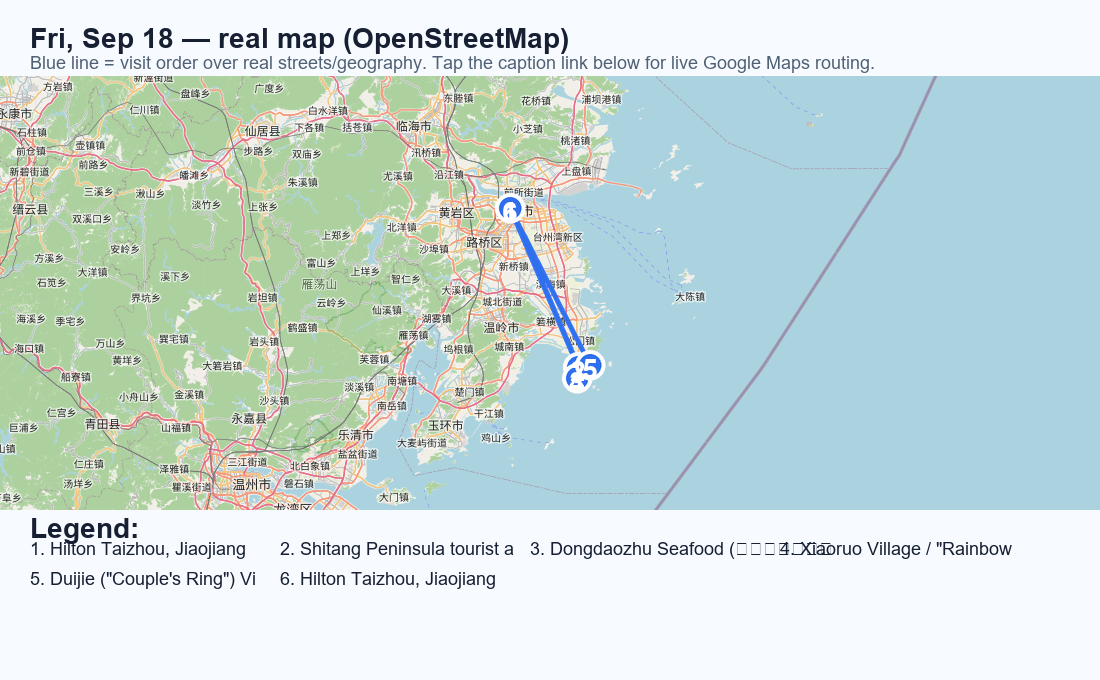
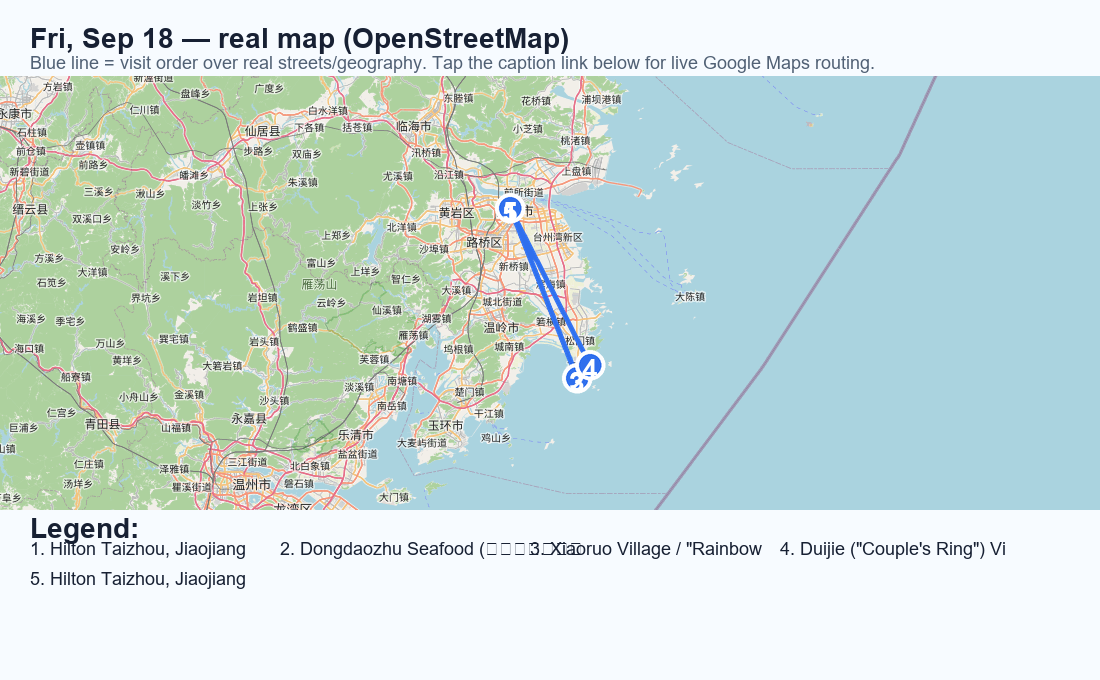
Sep19: number stops, add Hongqiao arrival/transfer detail
Copilot-Session: 5728fe09-5b5d-49bb-90e8-1375c7d7759c

Changed region(s): [[0.0309, 0.7721, 0.9273, 0.8647], [0.4945, 0.4324, 0.5564, 0.5559], [0.4636, 0.3706, 0.4945, 0.4324]]

diff --git a/Taipei-China-Itinerary.html b/Taipei-China-Itinerary.html
@@ -293,16 +293,15 @@ a{color:var(--acc)}
 <div class="body"><ul class="plan"><li><span class="en"><b>Upgraded from the old "just rest in Jiaojiang" plan</b> to a real day-trip: <b>Jiaojiang → Shitang Peninsula (石塘半岛), Wenling</b> by rented e-bike. Shitang is a different district of Taizhou from Jiaojiang — best available estimate is <b>~1.5–2h each way</b> by car (per prior Taizhou-district research: ~55–75 min Jiaojiang→Wenling city + further to Shitang town; the earlier "1h10min" figure was actually for Linhai↔Wenling, not Jiaojiang↔Shitang — re-check on a map/rideshare app closer to the date). <i>Fallback: anyone who'd rather just rest can stay at the hotel/spa instead — this whole day is optional, not mandatory.</i></span><span class="zh"><b>从原来「椒江纯休整」方案升级为真正的一日游</b>：<b>椒江 → 温岭石塘半岛</b>骑电动车一日游。石塘与椒江（台州希尔顿所在区）是台州下辖的不同区县，目前最可靠的估算是<b>单程约1.5–2小时</b>车程（依据此前台州各区县研究稿：椒江→温岭市区约55–75分钟，再到石塘镇更远；此前提到的「1小时10分」实为临海↔温岭车程，并非椒江↔石塘，出发前请再用地图/打车软件复核）。<i>备选：如果只想纯休息，也可以留在酒店/做理疗，今天整体是可选项，不强制外出。</i></span></li>
 <li><span class="en"><b>Plan B (preferred, lower effort):</b> taxi Jiaojiang → a Shitang guesthouse (~1.5–2h; if arriving by rail instead, reportedly ≈80 RMB/45 min from Wenling HSR Station), drop bags, then rent an e-bike right at the guesthouse door — several Shitang guesthouses reportedly rent e-bikes on-site (<b>as reported/unverified — confirm on arrival:</b> 温岭石塘禧悦民宿, 吾家小院, 臻之小筑, or the recommended <b>琳朵艺术空间·海景美宿（石塘七彩小岛店）</b> near Xiaoruo, ~3 min walk to Dongdaozhu), or from a local shop in town (<b>as reported/unverified:</b> 珂徕出行威哥租车电动车租赁 on 马北路, 24h; 小王金箭电瓶车修理出租 on 冠平路, 08:00–21:00). Choose a <b>48V large-battery/hill-climbing model (80–100 km range)</b> — enough for the whole peninsula loop.</span><span class="zh"><b>方案B（推荐，更省心）：</b>打车椒江 → 石塘民宿（约1.5–2小时；若改从温岭高铁站出发，据称约80元/45分钟），放下行李后直接在民宿门口租电动车——据称多家石塘民宿可现场租车（<b>用户提供、未逐一核实，抵达后请确认</b>：温岭石塘禧悦民宿、吾家小院、臻之小筑，或推荐的<b>琳朵艺术空间·海景美宿（石塘七彩小岛店）</b>，就在小箬村附近，步行约3分钟到东岛主），    或在镇上租车行租（<b>未核实</b>：马北路「珂徕出行威哥租车电动车租赁」24小时营业；冠平路「小王金箭电瓶车修理出租」08:00–21:00）。选<b>48V大电瓶爬坡款（续航80–100公里）</b>，足够绕完整个半岛。</span></li>
 <li><span class="en"><b>Rental terms (as reported, verify on the day):</b> weekday ≈50 RMB/24h, weekend/peak ≈60 RMB/24h (hourly ≈12 RMB/h isn't worth it vs. the day rate); ID card required; Sesame Credit (芝麻信用分) ≥650 can waive the deposit, otherwise ≈200 RMB cash deposit, refunded in full on return if undamaged. <b>Plan A (alternative, no taxi):</b> rent at <b>绿津骑行·电动车租赁 (温岭火车站店)</b> near Wenling HSR Station (reported ≈120 RMB/2-day battery-swap/long-range model — real rental shop, confirm current price) and ride the whole ~40 km Wenling Station→Shitang route yourself on a national highway with more traffic; must be a long-range model, and the bike has to be returned to the <b>same station-side shop</b> (no one-way drop-off in Shitang) — inconvenient for this itinerary, so Plan B is the primary recommendation.</span><span class="zh"><b>租车条件（用户提供，出发前请核实）：</b>工作日约50元/24小时，周末/旺季约60元/24小时（按小时约12元/小时不划算）；需带身份证；芝麻信用分≥650可免押金，否则现金押金约200元，车辆完好归还全额退还。<b>方案A（备选，不打车）：</b>在温岭火车站附近的「绿津骑行·电动车租赁（温岭火车站店）」租车（据称约120元/2天、换电池长续航款——确认为真实存在的当地租车行，具体价格请核实）自己骑约40公里的温岭站→石塘国道，车流更大，必须选长续航款，且车必须还到<b>同一家车站门店</b>（不能在石塘单程还车），对本行程不太方便，所以主推方案B。</span></li>
-<li><span class="en"><b>Visiting order (verified route, west→east along the coast, no backtracking):</b> ① <b>东岛主海鲜大排档 Dongdaozhu Seafood</b> (lunch/early meal, right across from Xiaoruo Village — verified as a real, well-reviewed local seafood spot; exact address as reported: 温岭市石塘镇东海村鑫海13号, confirm on arrival) → ② <b>小箬村 Xiaoruo Village / 七彩渔村 "Rainbow Fishing Village"</b> (~3 min walk over — verified: colorful hillside houses, flat/easy walking; <b>麒麟山 Qilin Hill</b> inside the village is a short staircase, not real hiking, and is the best photo/sunset overlook of the village) → ③ ~15 min e-bike/car east along the coastal road to the <b>对戒观景平台 Duijie ("Couple's Ring") viewing platform</b> for sunset (verified real spot at 五岙村; car/e-bike reaches a parking area, then ~10–15 min walk up — some steps, non-slip shoes recommended).</span><span class="zh"><b>游览顺序（已核实真实路线，沿海岸自西向东，无需走回头路）：</b>① <b>东岛主海鲜大排档</b>（用餐，就在小箬村对面——已核实为真实存在、口碑不错的当地海鲜大排档；报告地址温岭市石塘镇东海村鑫海13号，抵达后请核实门牌）→ ② <b>小箬村/七彩渔村</b>（步行约3分钟——已核实：彩色房屋依山而建，地势平坦好走；村内<b>麒麟山</b>只是一段短台阶，不是真正爬山，是俯瞰全村与海景/看日落的最佳机位）→ ③ 沿海岸公路骑电动车/开车向东约15分钟到<b>对戒观景平台</b>看日落（已核实为五岙村真实景点；车/电动车到停车场后步行约10–15分钟上平台，部分路段有台阶，建议穿防滑鞋）。</span></li>
+<li><span class="en"><b>Visiting order (verified route, west→east along the coast, no backtracking, numbered to match the map pins):</b> ① <b>Hilton Taizhou, Jiaojiang</b> (depart) → ② <b>东岛主海鲜大排档 Dongdaozhu Seafood</b> (lunch/early meal, right across from Xiaoruo Village — verified as a real, well-reviewed local seafood spot; exact address as reported: 温岭市石塘镇东海村鑫海13号, confirm on arrival) → ③ <b>小箬村 Xiaoruo Village / 七彩渔村 "Rainbow Fishing Village"</b> (~3 min walk over — verified: colorful hillside houses, flat/easy walking; <b>麒麟山 Qilin Hill</b> inside the village is a short staircase, not real hiking, and is the best photo/sunset overlook of the village) → ④ ~15 min e-bike/car east along the coastal road to the <b>对戒观景平台 Duijie ("Couple's Ring") viewing platform</b> for sunset (verified real spot at 五岙村; car/e-bike reaches a parking area, then ~10–15 min walk up — some steps, non-slip shoes recommended) → ⑤ return e-bike, taxi back to <b>Hilton Taizhou, Jiaojiang</b>. (Note: all three Shitang stops — Dongdaozhu, Xiaoruo, Duijie — sit within the broader Shitang Peninsula tourist area, so it isn't shown as its own numbered stop.)</span><span class="zh"><b>游览顺序（已核实真实路线，沿海岸自西向东，无需走回头路，编号与地图大头针一致）：</b>① <b>台州希尔顿（椒江）</b>（出发）→ ② <b>东岛主海鲜大排档</b>（用餐，就在小箬村对面——已核实为真实存在、口碑不错的当地海鲜大排档；报告地址温岭市石塘镇东海村鑫海13号，抵达后请核实门牌）→ ③ <b>小箬村/七彩渔村</b>（步行约3分钟——已核实：彩色房屋依山而建，地势平坦好走；村内<b>麒麟山</b>只是一段短台阶，不是真正爬山，是俯瞰全村与海景/看日落的最佳机位）→ ④ 沿海岸公路骑电动车/开车向东约15分钟到<b>对戒观景平台</b>看日落（已核实为五岙村真实景点；车/电动车到停车场后步行约10–15分钟上平台，部分路段有台阶，建议穿防滑鞋）→ ⑤ 还车，打车返回<b>台州希尔顿（椒江）</b>。（说明：东岛主、小箬村、对戒观景平台这三站都在「石塘半岛」这一片大区域内，故不再把「石塘半岛」单列为一个编号站点。）</span></li>
 <li><span class="en"><b>Rough day timing (own estimate, adjust once drive time is confirmed):</b> depart Hilton Taizhou ≈08:00–08:30 → arrive Shitang ≈09:30–10:30 → rent bike, ride/eat at Dongdaozhu + explore Xiaoruo late morning–afternoon → ride to Duijie platform in time for sunset (~18:00–18:30 in mid-Sep) → return e-bike → taxi back to Jiaojiang, arriving ≈20:30–21:30. This is a full, long day — confirm everyone (especially Mom) is up for the round-trip car time before locking it in.</span><span class="zh"><b>大致时间安排（本文估算，实际车程确认后请调整）：</b>约08:00–08:30 从台州希尔顿出发 → 约09:30–10:30 抵达石塘 → 租车后在东岛主用餐、逛小箬村（上午晚些到下午）→ 骑往对戒观景平台赶9月中旬约18:00–18:30的日落 → 还车 → 打车返回椒江，约20:30–21:30到酒店。这是很长的一天——落定前先确认包括Mom在内大家都能接受来回车程。</span></li>
 <li><span class="en"><b>Safety/pitfalls:</b> always inspect and <b>photograph the bike's brakes/body condition</b> before riding off, to avoid deposit disputes at return; a <b>helmet is legally required</b> and traffic police do check — don't skip it; pick a two-person/hill-climbing-capable model since Shitang's coastal sections are hilly and underpowered bikes struggle.</span><span class="zh"><b>安全/避坑提示：</b>取车前务必检查并<b>拍照记录刹车/车身状况</b>，避免还车时押金纠纷；<b>骑电动车必须戴头盔</b>，交警会查，别省这一步；选<b>双人/爬坡款</b>，石塘沿海路段有坡，动力不足的车会吃力。</span></li>
 <li><span class="en">Full write-up with both rental plans, all addresses, pricing and procedure: <a href='Taizhou-Shitang-Ebike-Plan.md'>Taizhou-Shitang-Ebike-Plan.md ↗</a>. Dinner: back in Jiaojiang, local seafood (unchanged from the old plan).</span><span class="zh">两套方案的完整地址、流程与更多细节见：<a href='Taizhou-Shitang-Ebike-Plan.md'>Taizhou-Shitang-Ebike-Plan.md ↗</a>。晚餐：返回椒江后吃本地海鲜（与原计划一致）。</span></li></ul>
 <figure class="daymap">
 <a href="itinerary-maps/day-2026-09-18.png" target="_blank" rel="noopener"><img loading="lazy" src="itinerary-maps/day-2026-09-18.png" alt="Daily combined map for Fri, Sep 18"></a>
-<figcaption><span class="en">Combined daily map on real OpenStreetMap tiles (straight-line visit order, not turn-by-turn routing).</span><span class="zh">每日合并地图（基于真实 OpenStreetMap 地图瓦片，直线示意访问顺序，不代表实际道路导航）。</span><br><span class="en">① Hilton Taizhou, Jiaojiang → ② Shitang Peninsula tourist area → ③ Dongdaozhu Seafood (东岛主海鲜大排档) → ④ Xiaoruo Village / &amp;quot;Rainbow Fishing Village&amp;quot; (小箬村/七彩渔村) → ⑤ Duijie (&amp;quot;Couple&amp;#x27;s Ring&amp;quot;) Viewing Platform → ⑥ Hilton Taizhou, Jiaojiang</span><span class="zh">① 台州希尔顿（椒江） → ② 石塘半岛旅游度假区 → ③ 东岛主海鲜大排档 → ④ 小箬村 / 七彩渔村 → ⑤ 对戒观景平台 → ⑥ 台州希尔顿（椒江）</span><br><a class="pin" href="https://www.google.com/maps/dir/?api=1&origin=28.66044%2C121.40412&destination=28.66044%2C121.40412&travelmode=driving&waypoints=28.27596%2C121.59014%7C28.25158%2C121.58765%7C28.25158%2C121.58765%7C28.28248%2C121.62384" target="_blank" rel="noopener"><span class="en">🧭 Open multi-stop route in Google Maps</span><span class="zh">🧭 在 Google Maps 打开多点路线</span></a></figcaption>
+<figcaption><span class="en">Combined daily map on real OpenStreetMap tiles (straight-line visit order, not turn-by-turn routing).</span><span class="zh">每日合并地图（基于真实 OpenStreetMap 地图瓦片，直线示意访问顺序，不代表实际道路导航）。</span><br><span class="en">① Hilton Taizhou, Jiaojiang → ② Dongdaozhu Seafood (东岛主海鲜大排档) → ③ Xiaoruo Village / &amp;quot;Rainbow Fishing Village&amp;quot; (小箬村/七彩渔村) → ④ Duijie (&amp;quot;Couple&amp;#x27;s Ring&amp;quot;) Viewing Platform → ⑤ Hilton Taizhou, Jiaojiang</span><span class="zh">① 台州希尔顿（椒江） → ② 东岛主海鲜大排档 → ③ 小箬村 / 七彩渔村 → ④ 对戒观景平台 → ⑤ 台州希尔顿（椒江）</span><br><a class="pin" href="https://www.google.com/maps/dir/?api=1&origin=28.66044%2C121.40412&destination=28.66044%2C121.40412&travelmode=driving&waypoints=28.25158%2C121.58765%7C28.25158%2C121.58765%7C28.28248%2C121.62384" target="_blank" rel="noopener"><span class="en">🧭 Open multi-stop route in Google Maps</span><span class="zh">🧭 在 Google Maps 打开多点路线</span></a></figcaption>
 </figure>
 <div class="grid"><figure class="card k-attr"><img class="photo" loading="lazy" src="itinerary-images/taizhou_hotel.jpg" alt="Hilton Taizhou, Jiaojiang"><figcaption><span class="cn en">Hilton Taizhou, Jiaojiang</span><span class="cn zh">台州希尔顿（椒江）</span><span class="cc en">Recommended two-night base for Taizhou Station and the Linhai private-car day trip</span><span class="cc zh">连住两晚；方便台州站，并包车往返临海</span><a class="pin" href="https://www.google.com/maps/search/?api=1&query=28.66044,121.40412" target="_blank" rel="noopener"><span class="en">📍 Open in Google Maps</span><span class="zh">📍 在 Google Maps 中打开</span></a></figcaption></figure>
-<figure class="card k-attr"><img class="photo" loading="lazy" src="itinerary-images/shitang_peninsula.jpg" alt="Shitang Peninsula tourist area"><figcaption><span class="cn en">Shitang Peninsula tourist area</span><span class="cn zh">石塘半岛旅游度假区</span><span class="cc en">Coastal road strings together Dongdaozhu / Xiaoruo / Duijie west-to-east, no backtracking; pin approximated to Shitang town center</span><span class="cc zh">沿海岸公路自西向东串联东岛主/小箬村/对戒观景平台，无需走回头路；坐标按石塘镇中心近似</span><a class="pin" href="https://www.google.com/maps/search/?api=1&query=28.27596,121.59014" target="_blank" rel="noopener"><span class="en">📍 Open in Google Maps</span><span class="zh">📍 在 Google Maps 中打开</span></a></figcaption></figure>
 <figure class="card k-food"><figcaption><span class="cn en">Dongdaozhu Seafood (东岛主海鲜大排档)</span><span class="cn zh">东岛主海鲜大排档</span><span class="cc en">Reported seafood restaurant, Donghai Village, Shitang, Wenling — right next to Xiaoruo Village; exact storefront not indexed in OSM, coords approximated to Xiaoruo Village center — confirm on arrival</span><span class="cc zh">石塘小箬村对面海鲜大排档（用户提供，未逐一核实门牌）；OSM未收录具体门店，坐标按小箬村中心近似，抵达后请核实</span><a class="pin" href="https://www.google.com/maps/search/?api=1&query=28.25158,121.58765" target="_blank" rel="noopener"><span class="en">📍 Open in Google Maps</span><span class="zh">📍 在 Google Maps 中打开</span></a></figcaption></figure>
 <figure class="card k-attr"><figcaption><span class="cn en">Xiaoruo Village / &quot;Rainbow Fishing Village&quot; (小箬村/七彩渔村)</span><span class="cn zh">小箬村 / 七彩渔村</span><span class="cc en">Colorful hillside fishing village, flat/easy walking; Qilin Hill inside the village is a short, gentle staircase, not real hiking</span><span class="cc zh">彩色房屋依山而建的渔村，地势平坦好走；村内麒麟山只是一段缓坡台阶，不是真正爬山</span><a class="pin" href="https://www.google.com/maps/search/?api=1&query=28.25158,121.58765" target="_blank" rel="noopener"><span class="en">📍 Open in Google Maps</span><span class="zh">📍 在 Google Maps 中打开</span></a></figcaption></figure>
 <figure class="card k-attr"><figcaption><span class="cn en">Duijie (&quot;Couple&#x27;s Ring&quot;) Viewing Platform</span><span class="cn zh">对戒观景平台</span><span class="cc en">Sunset viewpoint ~15 min e-bike/drive east of Xiaoruo along the coastal road; parking area then a ~10-15 min walk up (some steps — wear non-slip shoes)</span><span class="cc zh">日落观景点；从小箬村沿海岸线骑电动车/开车向东约15分钟；停车场到平台约10–15分钟步行（部分台阶，建议防滑鞋）</span><a class="pin" href="https://www.google.com/maps/search/?api=1&query=28.28248,121.62384" target="_blank" rel="noopener"><span class="en">📍 Open in Google Maps</span><span class="zh">📍 在 Google Maps 中打开</span></a></figcaption></figure>
@@ -310,9 +309,10 @@ a{color:var(--acc)}
 </details>
 <details class="day" data-date="2026-09-19">
 <summary><span class="date">Sat, Sep 19</span><span class="hl en">Zhejiang Taizhou → central Shanghai · Bund night</span><span class="hl zh">台州 → 上海市中心 · 外滩夜</span><span class="tag en">🚄 + skyline</span><span class="tag zh">🚄 + 天际线</span></summary>
-<div class="body"><ul class="plan"><li><span class="en">🚄 Depart from <b>Taizhou Station</b> (not Taizhou West), which is close to Jiaojiang/Hilton Taizhou. Prefer a direct train leaving about <b>09:30–12:00</b>; final choice after 12306 sales open.</span><span class="zh">🚄 <b>台州 → 上海虹桥/上海</b> 高铁；抵上海市中心，放行李、休息。</span></li>
-<li><span class="en">Evening: <b>The Bund riverfront promenade</b> + <b>Lujiazui skyline</b>. This is the real Shanghai skyline night; keep it flat and photo-focused, optionally add a Huangpu River night cruise.</span><span class="zh">晚上：<b>外滩滨江步道</b> + <b>陆家嘴天际线</b>。这晚才是正式上海夜景；全程平地拍照，可选黄浦江夜游船。</span></li>
-<li><span class="en">Stay <b>central Shanghai</b> (Waldorf Astoria on the Bund / Conrad / equivalent). 🏨 <a href='Hotel-Selection.html#hotel-shanghai'>hotel notes ↗</a></span><span class="zh">住<b>上海市中心</b>（外滩华尔道夫 / Conrad / 同级）。🏨 <a href='Hotel-Selection.html#hotel-shanghai'>住宿说明 ↗</a></span></li></ul>
+<div class="body"><ul class="plan"><li><span class="en">🚄 ① Depart from <b>Taizhou Station</b> (not Taizhou West), which is close to Jiaojiang/Hilton Taizhou. Prefer a direct train leaving about <b>09:30–12:00</b>; final choice after 12306 sales open.</span><span class="zh">🚄 ① 从<b>台州站</b>出发（非台州西站），紧邻椒江/台州希尔顿。优先选约<b>09:30–12:00</b>发车的直达车次，12306开售后再定。</span></li>
+<li><span class="en">🚄 ② Arrive <b>Shanghai Hongqiao Railway Station</b> — this is the HSR terminus for the Taizhou line, on the western edge of the city, not central Shanghai. Transfer by metro/taxi (~45–60 min) to the central-Shanghai hotel to drop bags before heading out for the evening.</span><span class="zh">🚄 ② 抵达<b>上海虹桥站</b>——这是台州线高铁的终点站，位于上海西部，并非市中心。需换乘地铁/打车（约45–60分钟）前往上海市中心酒店放行李。</span></li>
+<li><span class="en">③ Check in at the <b>central Shanghai</b> hotel (Waldorf Astoria on the Bund / Conrad / equivalent) and rest briefly. 🏨 <a href='Hotel-Selection.html#hotel-shanghai'>hotel notes ↗</a></span><span class="zh">③ 入住<b>上海市中心</b>酒店（外滩华尔道夫 / Conrad / 同级），稍作休息。🏨 <a href='Hotel-Selection.html#hotel-shanghai'>住宿说明 ↗</a></span></li>
+<li><span class="en">Evening: ④ <b>The Bund riverfront promenade</b> → ⑤ <b>Lujiazui skyline</b> across the river. This is the real Shanghai skyline night; keep it flat and photo-focused, optionally add a Huangpu River night cruise, then ⑥ return to the same central-Shanghai hotel to sleep.</span><span class="zh">晚上：④ <b>外滩滨江步道</b> → ⑤ 隔江眺望<b>陆家嘴天际线</b>。这晚才是正式上海夜景；全程平地拍照，可选黄浦江夜游船，之后⑥返回同一家市中心酒店过夜。</span></li></ul>
 <figure class="daymap">
 <a href="itinerary-maps/day-2026-09-19.png" target="_blank" rel="noopener"><img loading="lazy" src="itinerary-maps/day-2026-09-19.png" alt="Daily combined map for Sat, Sep 19"></a>
 <figcaption><span class="en">Combined daily map on real OpenStreetMap tiles (straight-line visit order, not turn-by-turn routing).</span><span class="zh">每日合并地图（基于真实 OpenStreetMap 地图瓦片，直线示意访问顺序，不代表实际道路导航）。</span><br><span class="en">① Hilton Taizhou, Jiaojiang → ② Taizhou Station → ③ Shanghai Hongqiao HSR → ④ Central Shanghai hotel area → ⑤ The Bund → ⑥ Lujiazui Skyline → ⑦ Central Shanghai hotel area</span><span class="zh">① 台州希尔顿（椒江） → ② 台州站 → ③ 上海虹桥站 → ④ 上海市中心酒店区 → ⑤ 外滩 → ⑥ 陆家嘴天际线 → ⑦ 上海市中心酒店区</span><br><a class="pin" href="https://www.google.com/maps/dir/?api=1&origin=28.66044%2C121.40412&destination=31.23560%2C121.48150&travelmode=driving&waypoints=28.65617%2C121.36729%7C31.19430%2C121.32020%7C31.23560%2C121.48150%7C31.23970%2C121.49030%7C31.23970%2C121.50000" target="_blank" rel="noopener"><span class="en">🧭 Open multi-stop route in Google Maps</span><span class="zh">🧭 在 Google Maps 打开多点路线</span></a></figcaption>

diff --git a/index.html b/index.html
@@ -293,16 +293,15 @@ a{color:var(--acc)}
 <div class="body"><ul class="plan"><li><span class="en"><b>Upgraded from the old "just rest in Jiaojiang" plan</b> to a real day-trip: <b>Jiaojiang → Shitang Peninsula (石塘半岛), Wenling</b> by rented e-bike. Shitang is a different district of Taizhou from Jiaojiang — best available estimate is <b>~1.5–2h each way</b> by car (per prior Taizhou-district research: ~55–75 min Jiaojiang→Wenling city + further to Shitang town; the earlier "1h10min" figure was actually for Linhai↔Wenling, not Jiaojiang↔Shitang — re-check on a map/rideshare app closer to the date). <i>Fallback: anyone who'd rather just rest can stay at the hotel/spa instead — this whole day is optional, not mandatory.</i></span><span class="zh"><b>从原来「椒江纯休整」方案升级为真正的一日游</b>：<b>椒江 → 温岭石塘半岛</b>骑电动车一日游。石塘与椒江（台州希尔顿所在区）是台州下辖的不同区县，目前最可靠的估算是<b>单程约1.5–2小时</b>车程（依据此前台州各区县研究稿：椒江→温岭市区约55–75分钟，再到石塘镇更远；此前提到的「1小时10分」实为临海↔温岭车程，并非椒江↔石塘，出发前请再用地图/打车软件复核）。<i>备选：如果只想纯休息，也可以留在酒店/做理疗，今天整体是可选项，不强制外出。</i></span></li>
 <li><span class="en"><b>Plan B (preferred, lower effort):</b> taxi Jiaojiang → a Shitang guesthouse (~1.5–2h; if arriving by rail instead, reportedly ≈80 RMB/45 min from Wenling HSR Station), drop bags, then rent an e-bike right at the guesthouse door — several Shitang guesthouses reportedly rent e-bikes on-site (<b>as reported/unverified — confirm on arrival:</b> 温岭石塘禧悦民宿, 吾家小院, 臻之小筑, or the recommended <b>琳朵艺术空间·海景美宿（石塘七彩小岛店）</b> near Xiaoruo, ~3 min walk to Dongdaozhu), or from a local shop in town (<b>as reported/unverified:</b> 珂徕出行威哥租车电动车租赁 on 马北路, 24h; 小王金箭电瓶车修理出租 on 冠平路, 08:00–21:00). Choose a <b>48V large-battery/hill-climbing model (80–100 km range)</b> — enough for the whole peninsula loop.</span><span class="zh"><b>方案B（推荐，更省心）：</b>打车椒江 → 石塘民宿（约1.5–2小时；若改从温岭高铁站出发，据称约80元/45分钟），放下行李后直接在民宿门口租电动车——据称多家石塘民宿可现场租车（<b>用户提供、未逐一核实，抵达后请确认</b>：温岭石塘禧悦民宿、吾家小院、臻之小筑，或推荐的<b>琳朵艺术空间·海景美宿（石塘七彩小岛店）</b>，就在小箬村附近，步行约3分钟到东岛主），    或在镇上租车行租（<b>未核实</b>：马北路「珂徕出行威哥租车电动车租赁」24小时营业；冠平路「小王金箭电瓶车修理出租」08:00–21:00）。选<b>48V大电瓶爬坡款（续航80–100公里）</b>，足够绕完整个半岛。</span></li>
 <li><span class="en"><b>Rental terms (as reported, verify on the day):</b> weekday ≈50 RMB/24h, weekend/peak ≈60 RMB/24h (hourly ≈12 RMB/h isn't worth it vs. the day rate); ID card required; Sesame Credit (芝麻信用分) ≥650 can waive the deposit, otherwise ≈200 RMB cash deposit, refunded in full on return if undamaged. <b>Plan A (alternative, no taxi):</b> rent at <b>绿津骑行·电动车租赁 (温岭火车站店)</b> near Wenling HSR Station (reported ≈120 RMB/2-day battery-swap/long-range model — real rental shop, confirm current price) and ride the whole ~40 km Wenling Station→Shitang route yourself on a national highway with more traffic; must be a long-range model, and the bike has to be returned to the <b>same station-side shop</b> (no one-way drop-off in Shitang) — inconvenient for this itinerary, so Plan B is the primary recommendation.</span><span class="zh"><b>租车条件（用户提供，出发前请核实）：</b>工作日约50元/24小时，周末/旺季约60元/24小时（按小时约12元/小时不划算）；需带身份证；芝麻信用分≥650可免押金，否则现金押金约200元，车辆完好归还全额退还。<b>方案A（备选，不打车）：</b>在温岭火车站附近的「绿津骑行·电动车租赁（温岭火车站店）」租车（据称约120元/2天、换电池长续航款——确认为真实存在的当地租车行，具体价格请核实）自己骑约40公里的温岭站→石塘国道，车流更大，必须选长续航款，且车必须还到<b>同一家车站门店</b>（不能在石塘单程还车），对本行程不太方便，所以主推方案B。</span></li>
-<li><span class="en"><b>Visiting order (verified route, west→east along the coast, no backtracking):</b> ① <b>东岛主海鲜大排档 Dongdaozhu Seafood</b> (lunch/early meal, right across from Xiaoruo Village — verified as a real, well-reviewed local seafood spot; exact address as reported: 温岭市石塘镇东海村鑫海13号, confirm on arrival) → ② <b>小箬村 Xiaoruo Village / 七彩渔村 "Rainbow Fishing Village"</b> (~3 min walk over — verified: colorful hillside houses, flat/easy walking; <b>麒麟山 Qilin Hill</b> inside the village is a short staircase, not real hiking, and is the best photo/sunset overlook of the village) → ③ ~15 min e-bike/car east along the coastal road to the <b>对戒观景平台 Duijie ("Couple's Ring") viewing platform</b> for sunset (verified real spot at 五岙村; car/e-bike reaches a parking area, then ~10–15 min walk up — some steps, non-slip shoes recommended).</span><span class="zh"><b>游览顺序（已核实真实路线，沿海岸自西向东，无需走回头路）：</b>① <b>东岛主海鲜大排档</b>（用餐，就在小箬村对面——已核实为真实存在、口碑不错的当地海鲜大排档；报告地址温岭市石塘镇东海村鑫海13号，抵达后请核实门牌）→ ② <b>小箬村/七彩渔村</b>（步行约3分钟——已核实：彩色房屋依山而建，地势平坦好走；村内<b>麒麟山</b>只是一段短台阶，不是真正爬山，是俯瞰全村与海景/看日落的最佳机位）→ ③ 沿海岸公路骑电动车/开车向东约15分钟到<b>对戒观景平台</b>看日落（已核实为五岙村真实景点；车/电动车到停车场后步行约10–15分钟上平台，部分路段有台阶，建议穿防滑鞋）。</span></li>
+<li><span class="en"><b>Visiting order (verified route, west→east along the coast, no backtracking, numbered to match the map pins):</b> ① <b>Hilton Taizhou, Jiaojiang</b> (depart) → ② <b>东岛主海鲜大排档 Dongdaozhu Seafood</b> (lunch/early meal, right across from Xiaoruo Village — verified as a real, well-reviewed local seafood spot; exact address as reported: 温岭市石塘镇东海村鑫海13号, confirm on arrival) → ③ <b>小箬村 Xiaoruo Village / 七彩渔村 "Rainbow Fishing Village"</b> (~3 min walk over — verified: colorful hillside houses, flat/easy walking; <b>麒麟山 Qilin Hill</b> inside the village is a short staircase, not real hiking, and is the best photo/sunset overlook of the village) → ④ ~15 min e-bike/car east along the coastal road to the <b>对戒观景平台 Duijie ("Couple's Ring") viewing platform</b> for sunset (verified real spot at 五岙村; car/e-bike reaches a parking area, then ~10–15 min walk up — some steps, non-slip shoes recommended) → ⑤ return e-bike, taxi back to <b>Hilton Taizhou, Jiaojiang</b>. (Note: all three Shitang stops — Dongdaozhu, Xiaoruo, Duijie — sit within the broader Shitang Peninsula tourist area, so it isn't shown as its own numbered stop.)</span><span class="zh"><b>游览顺序（已核实真实路线，沿海岸自西向东，无需走回头路，编号与地图大头针一致）：</b>① <b>台州希尔顿（椒江）</b>（出发）→ ② <b>东岛主海鲜大排档</b>（用餐，就在小箬村对面——已核实为真实存在、口碑不错的当地海鲜大排档；报告地址温岭市石塘镇东海村鑫海13号，抵达后请核实门牌）→ ③ <b>小箬村/七彩渔村</b>（步行约3分钟——已核实：彩色房屋依山而建，地势平坦好走；村内<b>麒麟山</b>只是一段短台阶，不是真正爬山，是俯瞰全村与海景/看日落的最佳机位）→ ④ 沿海岸公路骑电动车/开车向东约15分钟到<b>对戒观景平台</b>看日落（已核实为五岙村真实景点；车/电动车到停车场后步行约10–15分钟上平台，部分路段有台阶，建议穿防滑鞋）→ ⑤ 还车，打车返回<b>台州希尔顿（椒江）</b>。（说明：东岛主、小箬村、对戒观景平台这三站都在「石塘半岛」这一片大区域内，故不再把「石塘半岛」单列为一个编号站点。）</span></li>
 <li><span class="en"><b>Rough day timing (own estimate, adjust once drive time is confirmed):</b> depart Hilton Taizhou ≈08:00–08:30 → arrive Shitang ≈09:30–10:30 → rent bike, ride/eat at Dongdaozhu + explore Xiaoruo late morning–afternoon → ride to Duijie platform in time for sunset (~18:00–18:30 in mid-Sep) → return e-bike → taxi back to Jiaojiang, arriving ≈20:30–21:30. This is a full, long day — confirm everyone (especially Mom) is up for the round-trip car time before locking it in.</span><span class="zh"><b>大致时间安排（本文估算，实际车程确认后请调整）：</b>约08:00–08:30 从台州希尔顿出发 → 约09:30–10:30 抵达石塘 → 租车后在东岛主用餐、逛小箬村（上午晚些到下午）→ 骑往对戒观景平台赶9月中旬约18:00–18:30的日落 → 还车 → 打车返回椒江，约20:30–21:30到酒店。这是很长的一天——落定前先确认包括Mom在内大家都能接受来回车程。</span></li>
 <li><span class="en"><b>Safety/pitfalls:</b> always inspect and <b>photograph the bike's brakes/body condition</b> before riding off, to avoid deposit disputes at return; a <b>helmet is legally required</b> and traffic police do check — don't skip it; pick a two-person/hill-climbing-capable model since Shitang's coastal sections are hilly and underpowered bikes struggle.</span><span class="zh"><b>安全/避坑提示：</b>取车前务必检查并<b>拍照记录刹车/车身状况</b>，避免还车时押金纠纷；<b>骑电动车必须戴头盔</b>，交警会查，别省这一步；选<b>双人/爬坡款</b>，石塘沿海路段有坡，动力不足的车会吃力。</span></li>
 <li><span class="en">Full write-up with both rental plans, all addresses, pricing and procedure: <a href='Taizhou-Shitang-Ebike-Plan.md'>Taizhou-Shitang-Ebike-Plan.md ↗</a>. Dinner: back in Jiaojiang, local seafood (unchanged from the old plan).</span><span class="zh">两套方案的完整地址、流程与更多细节见：<a href='Taizhou-Shitang-Ebike-Plan.md'>Taizhou-Shitang-Ebike-Plan.md ↗</a>。晚餐：返回椒江后吃本地海鲜（与原计划一致）。</span></li></ul>
 <figure class="daymap">
 <a href="itinerary-maps/day-2026-09-18.png" target="_blank" rel="noopener"><img loading="lazy" src="itinerary-maps/day-2026-09-18.png" alt="Daily combined map for Fri, Sep 18"></a>
-<figcaption><span class="en">Combined daily map on real OpenStreetMap tiles (straight-line visit order, not turn-by-turn routing).</span><span class="zh">每日合并地图（基于真实 OpenStreetMap 地图瓦片，直线示意访问顺序，不代表实际道路导航）。</span><br><span class="en">① Hilton Taizhou, Jiaojiang → ② Shitang Peninsula tourist area → ③ Dongdaozhu Seafood (东岛主海鲜大排档) → ④ Xiaoruo Village / &amp;quot;Rainbow Fishing Village&amp;quot; (小箬村/七彩渔村) → ⑤ Duijie (&amp;quot;Couple&amp;#x27;s Ring&amp;quot;) Viewing Platform → ⑥ Hilton Taizhou, Jiaojiang</span><span class="zh">① 台州希尔顿（椒江） → ② 石塘半岛旅游度假区 → ③ 东岛主海鲜大排档 → ④ 小箬村 / 七彩渔村 → ⑤ 对戒观景平台 → ⑥ 台州希尔顿（椒江）</span><br><a class="pin" href="https://www.google.com/maps/dir/?api=1&origin=28.66044%2C121.40412&destination=28.66044%2C121.40412&travelmode=driving&waypoints=28.27596%2C121.59014%7C28.25158%2C121.58765%7C28.25158%2C121.58765%7C28.28248%2C121.62384" target="_blank" rel="noopener"><span class="en">🧭 Open multi-stop route in Google Maps</span><span class="zh">🧭 在 Google Maps 打开多点路线</span></a></figcaption>
+<figcaption><span class="en">Combined daily map on real OpenStreetMap tiles (straight-line visit order, not turn-by-turn routing).</span><span class="zh">每日合并地图（基于真实 OpenStreetMap 地图瓦片，直线示意访问顺序，不代表实际道路导航）。</span><br><span class="en">① Hilton Taizhou, Jiaojiang → ② Dongdaozhu Seafood (东岛主海鲜大排档) → ③ Xiaoruo Village / &amp;quot;Rainbow Fishing Village&amp;quot; (小箬村/七彩渔村) → ④ Duijie (&amp;quot;Couple&amp;#x27;s Ring&amp;quot;) Viewing Platform → ⑤ Hilton Taizhou, Jiaojiang</span><span class="zh">① 台州希尔顿（椒江） → ② 东岛主海鲜大排档 → ③ 小箬村 / 七彩渔村 → ④ 对戒观景平台 → ⑤ 台州希尔顿（椒江）</span><br><a class="pin" href="https://www.google.com/maps/dir/?api=1&origin=28.66044%2C121.40412&destination=28.66044%2C121.40412&travelmode=driving&waypoints=28.25158%2C121.58765%7C28.25158%2C121.58765%7C28.28248%2C121.62384" target="_blank" rel="noopener"><span class="en">🧭 Open multi-stop route in Google Maps</span><span class="zh">🧭 在 Google Maps 打开多点路线</span></a></figcaption>
 </figure>
 <div class="grid"><figure class="card k-attr"><img class="photo" loading="lazy" src="itinerary-images/taizhou_hotel.jpg" alt="Hilton Taizhou, Jiaojiang"><figcaption><span class="cn en">Hilton Taizhou, Jiaojiang</span><span class="cn zh">台州希尔顿（椒江）</span><span class="cc en">Recommended two-night base for Taizhou Station and the Linhai private-car day trip</span><span class="cc zh">连住两晚；方便台州站，并包车往返临海</span><a class="pin" href="https://www.google.com/maps/search/?api=1&query=28.66044,121.40412" target="_blank" rel="noopener"><span class="en">📍 Open in Google Maps</span><span class="zh">📍 在 Google Maps 中打开</span></a></figcaption></figure>
-<figure class="card k-attr"><img class="photo" loading="lazy" src="itinerary-images/shitang_peninsula.jpg" alt="Shitang Peninsula tourist area"><figcaption><span class="cn en">Shitang Peninsula tourist area</span><span class="cn zh">石塘半岛旅游度假区</span><span class="cc en">Coastal road strings together Dongdaozhu / Xiaoruo / Duijie west-to-east, no backtracking; pin approximated to Shitang town center</span><span class="cc zh">沿海岸公路自西向东串联东岛主/小箬村/对戒观景平台，无需走回头路；坐标按石塘镇中心近似</span><a class="pin" href="https://www.google.com/maps/search/?api=1&query=28.27596,121.59014" target="_blank" rel="noopener"><span class="en">📍 Open in Google Maps</span><span class="zh">📍 在 Google Maps 中打开</span></a></figcaption></figure>
 <figure class="card k-food"><figcaption><span class="cn en">Dongdaozhu Seafood (东岛主海鲜大排档)</span><span class="cn zh">东岛主海鲜大排档</span><span class="cc en">Reported seafood restaurant, Donghai Village, Shitang, Wenling — right next to Xiaoruo Village; exact storefront not indexed in OSM, coords approximated to Xiaoruo Village center — confirm on arrival</span><span class="cc zh">石塘小箬村对面海鲜大排档（用户提供，未逐一核实门牌）；OSM未收录具体门店，坐标按小箬村中心近似，抵达后请核实</span><a class="pin" href="https://www.google.com/maps/search/?api=1&query=28.25158,121.58765" target="_blank" rel="noopener"><span class="en">📍 Open in Google Maps</span><span class="zh">📍 在 Google Maps 中打开</span></a></figcaption></figure>
 <figure class="card k-attr"><figcaption><span class="cn en">Xiaoruo Village / &quot;Rainbow Fishing Village&quot; (小箬村/七彩渔村)</span><span class="cn zh">小箬村 / 七彩渔村</span><span class="cc en">Colorful hillside fishing village, flat/easy walking; Qilin Hill inside the village is a short, gentle staircase, not real hiking</span><span class="cc zh">彩色房屋依山而建的渔村，地势平坦好走；村内麒麟山只是一段缓坡台阶，不是真正爬山</span><a class="pin" href="https://www.google.com/maps/search/?api=1&query=28.25158,121.58765" target="_blank" rel="noopener"><span class="en">📍 Open in Google Maps</span><span class="zh">📍 在 Google Maps 中打开</span></a></figcaption></figure>
 <figure class="card k-attr"><figcaption><span class="cn en">Duijie (&quot;Couple&#x27;s Ring&quot;) Viewing Platform</span><span class="cn zh">对戒观景平台</span><span class="cc en">Sunset viewpoint ~15 min e-bike/drive east of Xiaoruo along the coastal road; parking area then a ~10-15 min walk up (some steps — wear non-slip shoes)</span><span class="cc zh">日落观景点；从小箬村沿海岸线骑电动车/开车向东约15分钟；停车场到平台约10–15分钟步行（部分台阶，建议防滑鞋）</span><a class="pin" href="https://www.google.com/maps/search/?api=1&query=28.28248,121.62384" target="_blank" rel="noopener"><span class="en">📍 Open in Google Maps</span><span class="zh">📍 在 Google Maps 中打开</span></a></figcaption></figure>
@@ -310,9 +309,10 @@ a{color:var(--acc)}
 </details>
 <details class="day" data-date="2026-09-19">
 <summary><span class="date">Sat, Sep 19</span><span class="hl en">Zhejiang Taizhou → central Shanghai · Bund night</span><span class="hl zh">台州 → 上海市中心 · 外滩夜</span><span class="tag en">🚄 + skyline</span><span class="tag zh">🚄 + 天际线</span></summary>
-<div class="body"><ul class="plan"><li><span class="en">🚄 Depart from <b>Taizhou Station</b> (not Taizhou West), which is close to Jiaojiang/Hilton Taizhou. Prefer a direct train leaving about <b>09:30–12:00</b>; final choice after 12306 sales open.</span><span class="zh">🚄 <b>台州 → 上海虹桥/上海</b> 高铁；抵上海市中心，放行李、休息。</span></li>
-<li><span class="en">Evening: <b>The Bund riverfront promenade</b> + <b>Lujiazui skyline</b>. This is the real Shanghai skyline night; keep it flat and photo-focused, optionally add a Huangpu River night cruise.</span><span class="zh">晚上：<b>外滩滨江步道</b> + <b>陆家嘴天际线</b>。这晚才是正式上海夜景；全程平地拍照，可选黄浦江夜游船。</span></li>
-<li><span class="en">Stay <b>central Shanghai</b> (Waldorf Astoria on the Bund / Conrad / equivalent). 🏨 <a href='Hotel-Selection.html#hotel-shanghai'>hotel notes ↗</a></span><span class="zh">住<b>上海市中心</b>（外滩华尔道夫 / Conrad / 同级）。🏨 <a href='Hotel-Selection.html#hotel-shanghai'>住宿说明 ↗</a></span></li></ul>
+<div class="body"><ul class="plan"><li><span class="en">🚄 ① Depart from <b>Taizhou Station</b> (not Taizhou West), which is close to Jiaojiang/Hilton Taizhou. Prefer a direct train leaving about <b>09:30–12:00</b>; final choice after 12306 sales open.</span><span class="zh">🚄 ① 从<b>台州站</b>出发（非台州西站），紧邻椒江/台州希尔顿。优先选约<b>09:30–12:00</b>发车的直达车次，12306开售后再定。</span></li>
+<li><span class="en">🚄 ② Arrive <b>Shanghai Hongqiao Railway Station</b> — this is the HSR terminus for the Taizhou line, on the western edge of the city, not central Shanghai. Transfer by metro/taxi (~45–60 min) to the central-Shanghai hotel to drop bags before heading out for the evening.</span><span class="zh">🚄 ② 抵达<b>上海虹桥站</b>——这是台州线高铁的终点站，位于上海西部，并非市中心。需换乘地铁/打车（约45–60分钟）前往上海市中心酒店放行李。</span></li>
+<li><span class="en">③ Check in at the <b>central Shanghai</b> hotel (Waldorf Astoria on the Bund / Conrad / equivalent) and rest briefly. 🏨 <a href='Hotel-Selection.html#hotel-shanghai'>hotel notes ↗</a></span><span class="zh">③ 入住<b>上海市中心</b>酒店（外滩华尔道夫 / Conrad / 同级），稍作休息。🏨 <a href='Hotel-Selection.html#hotel-shanghai'>住宿说明 ↗</a></span></li>
+<li><span class="en">Evening: ④ <b>The Bund riverfront promenade</b> → ⑤ <b>Lujiazui skyline</b> across the river. This is the real Shanghai skyline night; keep it flat and photo-focused, optionally add a Huangpu River night cruise, then ⑥ return to the same central-Shanghai hotel to sleep.</span><span class="zh">晚上：④ <b>外滩滨江步道</b> → ⑤ 隔江眺望<b>陆家嘴天际线</b>。这晚才是正式上海夜景；全程平地拍照，可选黄浦江夜游船，之后⑥返回同一家市中心酒店过夜。</span></li></ul>
 <figure class="daymap">
 <a href="itinerary-maps/day-2026-09-19.png" target="_blank" rel="noopener"><img loading="lazy" src="itinerary-maps/day-2026-09-19.png" alt="Daily combined map for Sat, Sep 19"></a>
 <figcaption><span class="en">Combined daily map on real OpenStreetMap tiles (straight-line visit order, not turn-by-turn routing).</span><span class="zh">每日合并地图（基于真实 OpenStreetMap 地图瓦片，直线示意访问顺序，不代表实际道路导航）。</span><br><span class="en">① Hilton Taizhou, Jiaojiang → ② Taizhou Station → ③ Shanghai Hongqiao HSR → ④ Central Shanghai hotel area → ⑤ The Bund → ⑥ Lujiazui Skyline → ⑦ Central Shanghai hotel area</span><span class="zh">① 台州希尔顿（椒江） → ② 台州站 → ③ 上海虹桥站 → ④ 上海市中心酒店区 → ⑤ 外滩 → ⑥ 陆家嘴天际线 → ⑦ 上海市中心酒店区</span><br><a class="pin" href="https://www.google.com/maps/dir/?api=1&origin=28.66044%2C121.40412&destination=31.23560%2C121.48150&travelmode=driving&waypoints=28.65617%2C121.36729%7C31.19430%2C121.32020%7C31.23560%2C121.48150%7C31.23970%2C121.49030%7C31.23970%2C121.50000" target="_blank" rel="noopener"><span class="en">🧭 Open multi-stop route in Google Maps</span><span class="zh">🧭 在 Google Maps 打开多点路线</span></a></figcaption>
